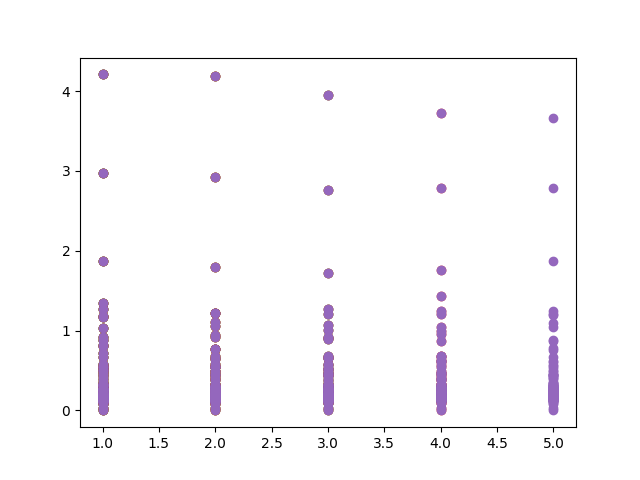
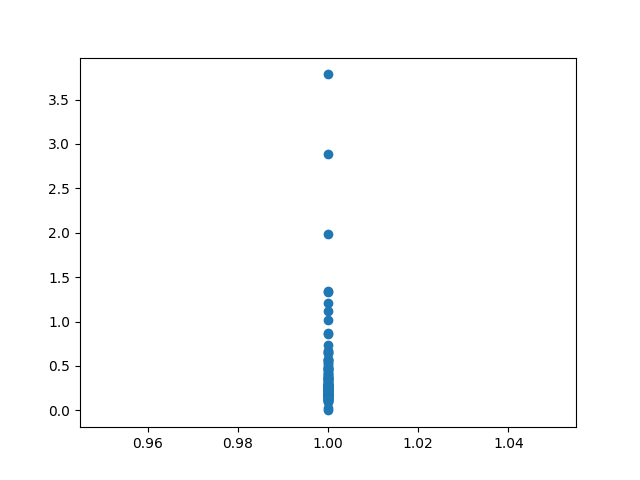
12/17/18:38 final auto update

diff --git a/MLP GPT/early_stop.py b/MLP GPT/early_stop.py
@@ -9,44 +9,57 @@ import matplotlib.pyplot as plt
 from multiprocessing import Pool
 
 # arguments: <test_set> <MMDD-MMDD(for fitting)> <MMDD-MMDD(for validate)> <epoch times>
-epoch = 0
 
 def exe(x, y, z, w, u, vary):
     os.system(f"python3 given_err.py {x[:-1]} {y} {z} {w} {u} 1>/Users/kaihuang1122/Documents/ML/Final/MLP\ GPT/log/{vary}/{x[:-1]}.out 2>/Users/kaihuang1122/Documents/ML/Final/MLP\ GPT/output/{vary}/{x[:-1]}.csv")
     #os.system(f"python3 given_err.py 500119051 hours/1002-1202 hours/1202-1209 0 64")
-result = []
+
+
+def earlystop(x):
+    final_epoch = 0
+    prev_error = 999
+    units = 6
+    for epoch in range(10):
+        itr = (x, "hours/1002-1202", "hours/1202-1209", str(epoch), str(units), f"predict{units}")
+        exe(itr)
+        fh = open(f"/Users/kaihuang1122/Documents/ML/Final/MLP GPT/log/predict{units}/{x[:-1]}.out")
+        error = fh.readlines()[-1].split(' ')[-1][:-1]
+        if (error < prev_error):
+            final_epoch = epoch
+            prev_error = error
+        else:
+            break
+
+
+
+        
+
 
 if __name__ == '__main__':
-    for units in range(6, 11):
-        #if os.fork() == 0:
-        li = []
-        #for epoch in range(1, 6):
-        thrs = []
-        #for x in tqdm(open("/Users/kaihuang1122/Documents/ML/Final/html.2023.final.data/sno_test_set.txt").readlines()[0:]):
-            #exe(x, "hours/1002-1202", "hours/1202-1209", str(epoch), str(units), f"predict{units}")
-        pbar = tqdm(total=112)
-        upd = lambda *args: pbar.update()
-        itr = [ (x, "hours/1002-1202", "hours/1202-1209", str(epoch), str(units), f"predict{units}") for x in open("/Users/kaihuang1122/Documents/ML/Final/html.2023.final.data/sno_test_set.txt").readlines()[0:] ]
-        
-        with Pool(10) as p:
-            for x in itr:
-                p.apply_async(exe, x, callback=upd)
-            p.close()
-            p.join()
+    result = []
+    li = []
+    thrs = []
+    pbar = tqdm(total=112)
+    upd = lambda *args: pbar.update()    
+    with Pool(10) as p:
+        for x in open("/Users/kaihuang1122/Documents/ML/Final/html.2023.final.data/sno_test_set.txt").readlines()[0:]:
+            p.apply_async(earlystop, x, callback=upd)
+        p.close()
+        p.join()
 
-        
-        # collect error
-        out = []
-        for x in (open("/Users/kaihuang1122/Documents/ML/Final/html.2023.final.data/sno_test_set.txt").readlines()[0:]):
-            fh = open(f"/Users/kaihuang1122/Documents/ML/Final/MLP GPT/log/predict{units}/{x[:-1]}.out")
-            table = fh.readlines()[-1].split(' ')[-1][:-1]
-            out.append(np.float64(table))
+    # collect error
+    units = 6
+    out = []
+    for x in (open("/Users/kaihuang1122/Documents/ML/Final/html.2023.final.data/sno_test_set.txt").readlines()[0:]):
+        fh = open(f"/Users/kaihuang1122/Documents/ML/Final/MLP GPT/log/predict{units}/{x[:-1]}.out")
+        table = fh.readlines()[-1].split(' ')[-1][:-1]
+        out.append(np.float64(table))
 
-        print(np.mean(out))
-        result += out
-        li += [epoch]*112
-        plt.scatter(li,result)
-        plt.savefig(f"/Users/kaihuang1122/Documents/ML/Final/MLP GPT/graph/units_{units}.png")
+    print(np.mean(out))
+    result += out
+    li += [1]*112
+    plt.scatter(li,result)
+    plt.savefig(f"/Users/kaihuang1122/Documents/ML/Final/MLP GPT/graph/units_{units}.png")
 
 
 # python3 given_err.py 500101001 "hours/1002-1128" "hours/total[predict]" "1" 1>log/predict/500101001.out
